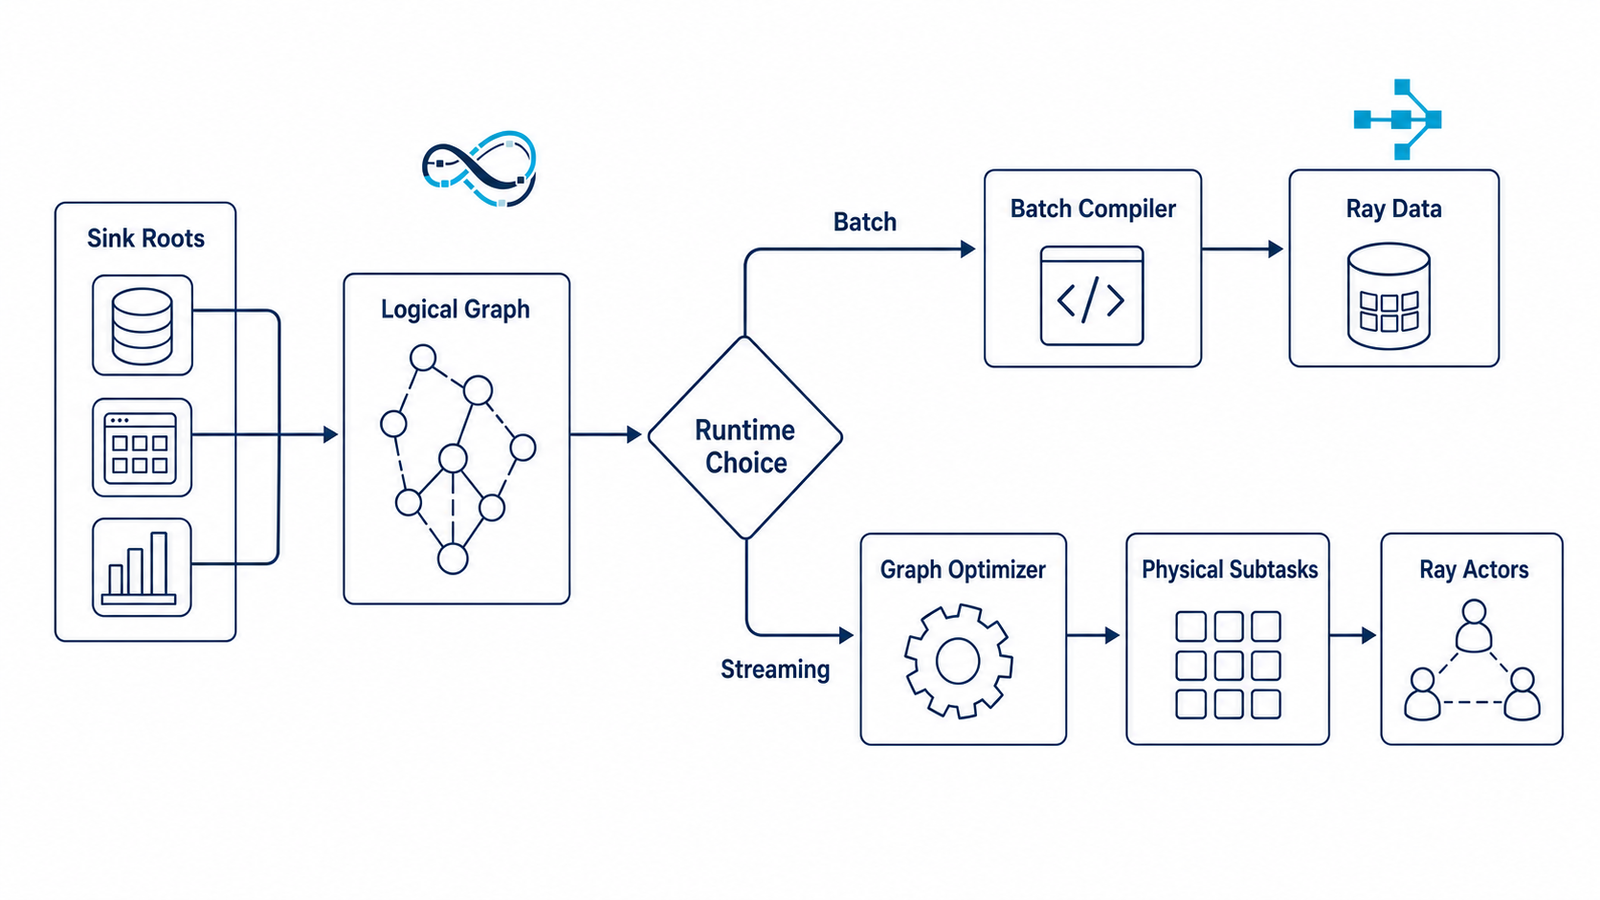
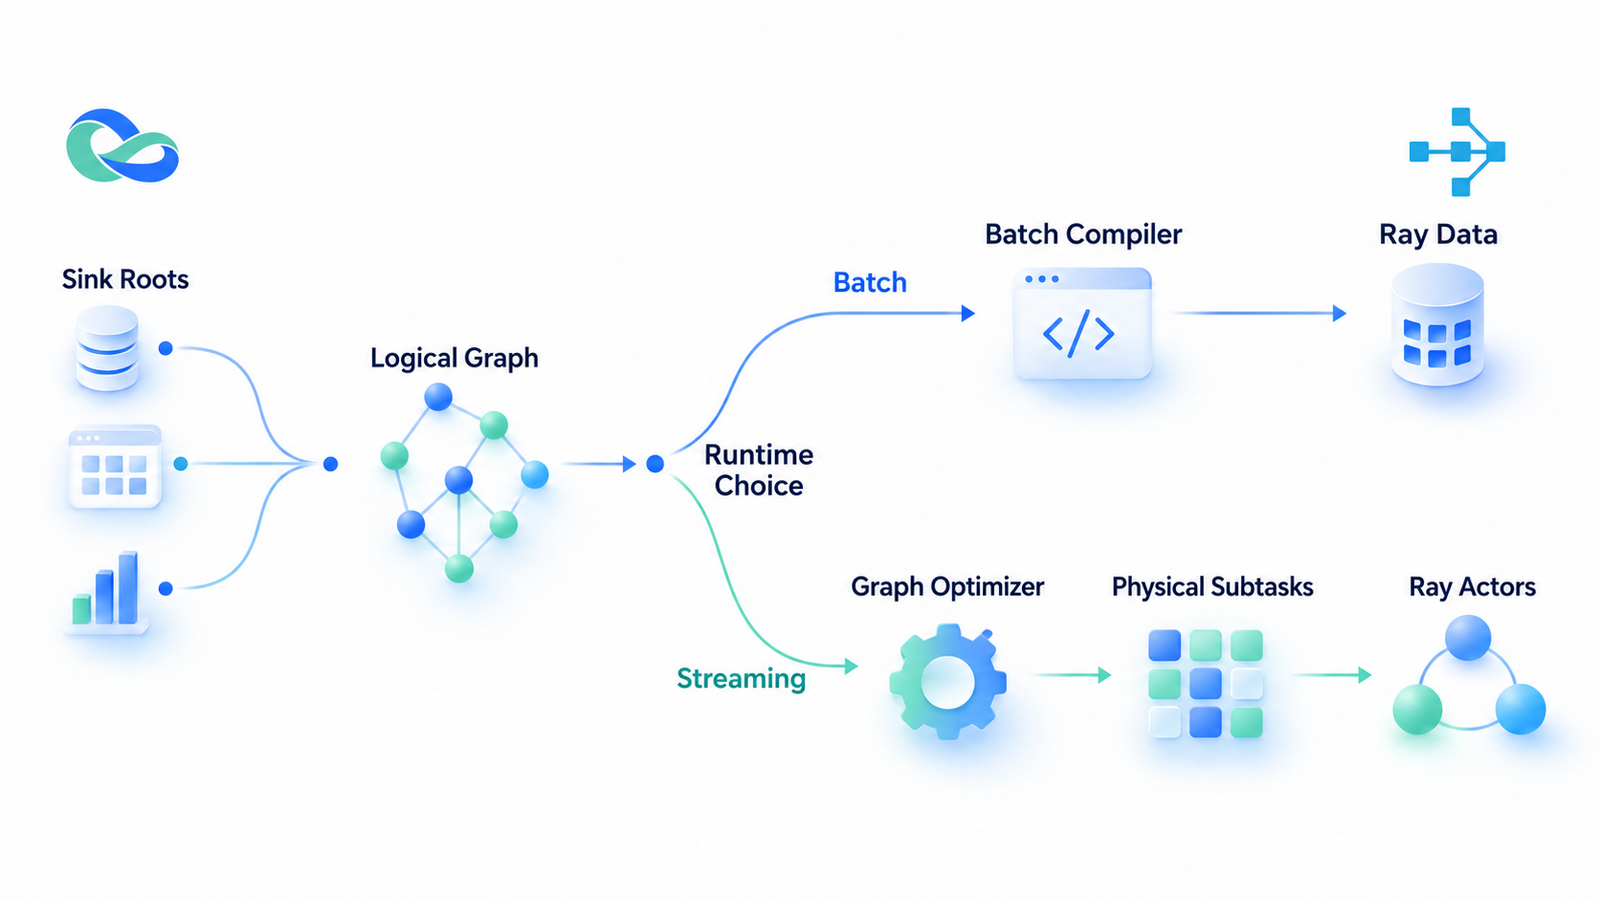
Refresh README and modernize documentation illustrations (#97)
Reorganize the README for first-time readers and add an ImageGen overview of
the per-job runtime choice. Refresh five shared documentation illustrations
with the approved blue/mint identity and modern open layouts, and preserve
the final prompts and artwork usage notes.

diff --git a/README.md b/README.md
@@ -19,67 +19,45 @@
   <a href="LICENSE"><img alt="Apache License 2.0" src="https://img.shields.io/badge/license-Apache--2.0-3DA639"></a>
 </p>
 
-Klein is a stateful stream-processing library built on Ray. A single
-`DataStream` API handles bounded Ray Data inputs and long-running streams, with
-event time, managed keyed state, checkpoint recovery, and SQL and Table APIs.
+<p align="center">
+  <a href="#quick-start">Quick start</a> ·
+  <a href="https://yuchen-ecnu.github.io/klein/latest/">Documentation</a> ·
+  <a href="https://yuchen-ecnu.github.io/klein/latest/zh_CN/">中文文档</a> ·
+  <a href="docs/examples.md">Examples</a>
+</p>
 
-> [!WARNING]
-> Klein is independent alpha software. It is not affiliated with,
-> endorsed by, or maintained by the Ray project. The `ray.klein` namespace is
-> retained as a technical integration point, not as a claim of official status.
+Klein brings stateful stream processing to Python applications on Ray. Build
+bounded data pipelines and long-running event streams with one `DataStream`
+API, with event time, managed keyed state, and checkpoint recovery.
+
+![Files and event streams enter the DataStream API; each job runs either as compatible Ray Data operations or as stateful Ray Core actors.](docs/_static/klein-overview.png)
+
+A job uses **one runtime**: compatible bounded graphs lower to Ray Data;
+streaming graphs run as long-lived Ray actors. See
+[how runtime selection works](docs/ray-data-interop.md).
 
 ## Why Klein?
 
-Klein is for Ray applications that need record-oriented processing and state
-that survives task failures or parallelism changes. Use
-[Ray Data](https://docs.ray.io/en/latest/data/data.html) directly for bounded
-data preparation, inference, or training ingest that does not need streaming
-state or event-time progress.
+- **Process events with state.** Build keyed aggregations, event-time windows,
+  and stateful transformations with managed state, timers, and watermarks.
+- **Recover a running pipeline.** Coordinate source positions and managed
+  state through durable checkpoints, then restore supported jobs after failure.
+- **Stay in your Ray environment.** Use Ray Data readers for bounded inputs,
+  Python or SQL for transformations, and the Dashboard and CLI to operate jobs.
 
-### Name and mark
+Klein fits applications that need continuous processing, event-time progress,
+or recoverable state on Ray. For bounded data preparation or training ingest
+without those requirements, [Ray Data](https://docs.ray.io/en/latest/data/data.html)
+may already cover your needs.
 
-“Klein” comes from the Klein bottle and the idea of taking a Möbius loop one
-dimension further. The blue and mint ribbons form an abstract folded surface,
-expressing continuous dataflow and the connection between bounded datasets
-and unbounded streams. The mark is inspired by topology rather than a literal
-mathematical projection of a Klein bottle.
+> [!NOTE]
+> Klein is an independent **alpha** project, not affiliated with, endorsed by,
+> or maintained by Ray. Public APIs and checkpoint formats may change before 1.0.
 
-| Capability | What Klein provides |
-| --- | --- |
-| Unified dataflows | One lazy `DataStream` graph for bounded and continuous sources. |
-| Native Ray execution | Ray Data lowers compatible bounded work; Ray Core runs long-lived streaming operators. |
-| Event time | Watermarks, idle-input detection, windows, and event-time timers. |
-| Managed state | Keyed state, TTL, key groups, rescaling, and checkpoint restore. |
-| Recovery | Durable checkpoints, source-position restore, and replay-aware sinks. |
-| Relational APIs | Bounded SQL plus dynamic tables and explicit changelog rows for continuous queries. |
-| Connectors | Ray Data, collections, Kafka, RocketMQ, filesystems, Iceberg, Redis, console, custom connectors, Canal JSON, and Ray Serve integration. |
-| Operations | Structured logs, Ray metrics, checkpoint inspection, CLI attach, and a JSON-safe state API. |
+## Quick start
 
-### How Klein fits into Ray
-
-| Ray component | Role in Klein |
-| --- | --- |
-| Ray Core | Runs distributed operators and coordinates streaming recovery. |
-| Ray Data | Executes bounded sources, transformations, shuffles, and sinks. |
-| Ray Object Store | Can cache sufficiently large immutable checkpoint fragments to accelerate recovery. |
-
-![Klein component architecture](docs/_static/architecture-overview.png)
-
-The same lazy graph therefore has two execution paths: bounded-compatible work
-lowers to Ray Data, while continuous work expands into long-lived Ray actors.
-The streaming control plane stays outside the record path; workers exchange
-ordered micro-batches directly and use durable checkpoints for cluster-loss
-recovery. See the [architecture guide](docs/architecture.md) for the planning,
-data-plane, checkpoint, and extension boundaries behind this overview.
-
-The distribution contributes only the `ray.klein` namespace package. It does
-not install `ray/__init__.py` or replace files owned by Ray.
-
-## Installation
-
-Klein currently targets Python 3.10–3.12 and Ray 2.56.x
-(`ray[data]>=2.56.1,<2.57`). The Alpha is currently installed from a source
-checkout or a wheel built from that checkout:
+Use Python **3.10–3.12** on Linux or macOS. Installation from source includes
+the supported Ray dependency (`ray[data]>=2.56.1,<2.57`).
 
 ```bash
 git clone https://github.com/yuchen-ecnu/klein.git
@@ -90,40 +68,7 @@ python -m pip install --upgrade pip
 python -m pip install .
 ```
 
-If Ray is supplied by a vendor image or private index, verify that it does not
-already ship `ray.klein` before installing this distribution:
-
-```bash
-python -m pip install "ray[data]>=2.56.1,<2.57"
-python scripts/check_ray_namespace.py
-```
-
-Do not merge two distributions that both own `ray.klein`; use a compatible Ray
-build or the Klein implementation bundled by that Ray distribution.
-
-Install connector dependencies only when needed:
-
-```bash
-python -m pip install ".[kafka]"   # continuous Kafka source/sink
-python -m pip install ".[iceberg]" # Iceberg catalog and output
-python -m pip install ".[media]"   # image, PDF, and media SQL functions
-python -m pip install ".[rocketmq]" # continuous RocketMQ source
-python -m pip install ".[redis]"   # Redis lookup/sink
-python -m pip install ".[rocksdb]" # local RocksDB state backend
-python -m pip install ".[serve]"   # Ray Serve bridge
-```
-
-For development, install the test, documentation, and tooling dependencies:
-
-```bash
-python -m pip install -e ".[dev]"
-pre-commit install --hook-type pre-commit --hook-type commit-msg
-```
-
-## Quick start
-
-Klein builds the bounded graph lazily. `klein.pipeline()` gives one job an
-explicit owner, while a single terminal submits itself directly:
+Run a small bounded pipeline:
 
 ```python
 import ray.klein as klein
@@ -142,109 +87,90 @@ rows = (
 )
 
 print(rows)
+# [{'name': 'Ada', 'amount': 8}, {'name': 'Grace', 'amount': 14}]
 ```
 
-```text
-[{'name': 'Ada', 'amount': 8}, {'name': 'Grace', 'amount': 14}]
-```
+Transformations build a lazy graph. `collect()` submits the explicit pipeline;
+`result()` waits for its rows. No broker or external data source is needed for
+this example.
 
-`klein.pipeline()` is the recommended explicit job boundary; the `Pipeline`
-class remains available for annotations, subclassing, and compatibility. The
-module-level `ray.klein` API and `execute()` remain supported when one
-implicit, deferred pipeline is convenient. Multiple sinks on an explicit
-pipeline can be grouped with `pipeline.create_statement_set()`. Source
-construction follows `ray.data`: for
-example, `pipeline.ray_data.read_parquet(...)` creates a bounded stream using
-the installed Ray Data reader. Native methods such as `stream.map(...)` use
-Klein semantics; `stream.ray_data.map(...)` explicitly delegates to the
-installed Ray Data implementation. The shorter `.data` spelling remains
-available for compatibility.
+**Next, connect real data:** follow the
+[Kafka streaming walkthrough](docs/getting-started.md#submit-a-dataflow),
+[SQL quick start](docs/sql/getting-started.md), or
+[checkpointed streaming example](docs/production-streaming.md).
 
-For continuous execution, see the
-[Kafka walkthrough](docs/getting-started.md#submit-a-dataflow) and the complete
-[connector catalog](docs/connectors/index.md).
+Install only the extras you need, such as `python -m pip install ".[kafka]"`.
+The [installation guide](docs/installation.md) covers all extras, cluster setup,
+and checks for vendor Ray builds that already provide `ray.klein`.
 
-Start the self-contained Klein Dashboard on port 8266. Its React application is
-packaged with `ray-klein`; Ray-owned navigation opens the native Dashboard on
-port 8265:
+## What you can build with
+
+| Capability | What it provides | Guide |
+| --- | --- | --- |
+| State and event time | Keyed value, list, and map state; TTL; timers; watermarks; windows. | [Managed state](docs/ray-native-state.md) · [Event time](docs/event-time.md) |
+| Recovery | Durable checkpoints, source-position restore, and replay-aware sinks. | [Checkpoint recovery](docs/checkpoint-recovery.md) |
+| SQL and tables | Bounded queries and continuous queries with explicit changelog rows. | [SQL and Table APIs](docs/sql.md) |
+| Inputs and outputs | Ray Data, Kafka, RocketMQ, filesystems, Iceberg, Redis, and custom connectors. | [Connector catalog](docs/connectors/index.md) |
+| Ray integration | Ray Data readers and Dataset adapters; eligible transform chains behind Ray Serve. | [Ray Data](docs/ray-data-interop.md) · [Ray Serve](docs/connectors/ray-serve.md) |
+| Operations | Dashboard, metrics, CLI inspection, detached jobs, and supported live operator rescaling. | [Observability](docs/observability.md) · [Rescaling](docs/operator-rescaling.md) |
+
+Delivery guarantees depend on the source and sink. General delivery is
+at least once; checkpoint-aware filesystem and Iceberg outputs have their own
+publication contracts. Review [delivery semantics](docs/delivery-semantics.md)
+and [operator compatibility](docs/operator-compatibility.md) for your graph.
+
+### Inspect jobs in the Dashboard
+
+The Dashboard ships with Klein and runs on port **8266**. It provides job
+status, operator graphs, checkpoint inspection, and configuration. Links to
+Ray-owned views open the native Ray Dashboard on port **8265**.
 
 ```bash
 ray-klein dashboard --open \
   --ray-dashboard-url http://127.0.0.1:8265
 ```
 
-## Documentation
+See the [operations guide](docs/observability.md) for connecting to a cluster,
+metrics, and CLI access.
 
-| Start here | What it covers |
+## Go further
+
+| Your next step | Start here |
 | --- | --- |
-| [Installation](docs/installation.md) | Supported environments, base and optional extras, cluster consistency, verification, upgrades, and removal. |
-| [Getting started](docs/getting-started.md) | Installation, bounded pipelines, streaming submission, and configuration. |
-| [Key concepts](docs/key-concepts.md) | Execution modes, state, event time, and recovery. |
-| [Architecture](docs/architecture.md) | Planning, batch and streaming runtimes, the ordered data plane, checkpoints, recovery, and extension boundaries. |
-| [User guides](docs/user-guides.md) | Production streaming, SQL, state, delivery semantics, recovery, deployment, tuning, and operations. |
-| [DataStream programming](docs/datastream-programming-guide.md) | Records, batches, UDF forms, ordering, errors, resources, partitioning, and external side effects. |
-| [Job lifecycle](docs/job-lifecycle.md) | `Pipeline`, `StatementSet`, direct and deferred terminals, job handles, cancellation, namespaces, and cleanup. |
-| [Operator compatibility](docs/operator-compatibility.md) | Batch/streaming support, partitioning, state, changelog, and sink behavior. |
-| [Production walkthrough](docs/production-streaming.md) | Kafka input through event-time state, checkpoints, file output, CLI operations, and restore. |
-| [Connector catalog](docs/connectors/index.md) | Every connector's modes, options, defaults, schemas, and guarantees. |
-| [Configuration reference](docs/configuration-reference.md) | Every supported key, type, default, constraint, and environment variable. |
-| [API reference](docs/api/api.rst) | Public Python classes, functions, and methods. |
-| [Observability](docs/observability.md) | Logs, metrics, checkpoints, CLI attach, and the web Dashboard with operator scaling. |
-| [Evaluation](docs/evaluation/index.md) | Reproducible benchmark reports, baselines, correctness checks, neutral results, and engineering decisions. |
-| [Production readiness](docs/production-readiness.md) | A release checklist for compatibility, recovery, capacity, observability, security, and rollback. |
-| [Security](docs/security.md) | Trust boundaries, UDF and pickle risks, control-plane exposure, secrets, and hardening. |
-| [Limits, stability, and upgrades](docs/limitations.md) | Unsupported combinations, API guarantees, checkpoint compatibility, upgrade rehearsal, and rollback. |
-| [CLI reference](docs/cli-reference.md) | Commands, options, JSON output, exit statuses, terminal behavior, and automation examples. |
-| [FAQ](docs/faq.md) | Short answers about installation, execution, state, SQL, connectors, and operations. |
-| [Troubleshooting](docs/troubleshooting.md) | Installation, planning, connector, watermark, checkpoint, backpressure, and CLI failures. |
+| Learn the programming model | [Key concepts](docs/key-concepts.md) · [DataStream guide](docs/datastream-programming-guide.md) · [Examples](docs/examples.md) |
+| Understand the implementation | [Architecture](docs/architecture.md) · [Feature guides](docs/features.md) |
+| Run a continuous job | [Production walkthrough](docs/production-streaming.md) · [Deployment](docs/deployment.md) |
+| Evaluate a deployment | [Known limitations](docs/limitations.md) · [Production readiness](docs/production-readiness.md) · [Security](docs/security.md) |
+| Look up an API or solve a problem | [API reference](docs/api/api.rst) · [Configuration](docs/configuration-reference.md) · [Troubleshooting](docs/troubleshooting.md) |
 
-### Feature guides
-
-| Feature | Dedicated documentation |
-| --- | --- |
-| Feature overview | [Feature highlights](docs/features.md) maps every distinctive capability to its programming, operations, and limitation guides. |
-| Hybrid Ray execution and dynamic Ray Data access | [Ray Data interoperation](docs/ray-data-interop.md) |
-| Managed keyed state, TTL, timers, and key groups | [Managed state](docs/ray-native-state.md) |
-| Watermarks, idleness, windows, and interval joins | [Event time](docs/event-time.md) |
-| Bounded and continuous relational processing | [SQL and Table APIs](docs/sql.md) |
-| Checkpoint-aware recovery and sink guarantees | [Delivery semantics](docs/delivery-semantics.md) |
-| Ray Data autoscaling and live streaming rescaling | [Autoscaling and live operator rescaling](docs/operator-rescaling.md) |
-| Detached streaming jobs and driver failure | [Driver fault tolerance](docs/driver-fault-tolerance.md) |
-| Independently deployed transform regions | [Ray Serve execution integration](docs/connectors/ray-serve.md) |
-
-Build the documentation locally with:
-
-```bash
-make docs          # English at docs/_build/html, Chinese at docs/_build/html/zh_CN
-make docs-en       # English only
-make docs-zh       # Chinese only
-make docs-gettext  # Refresh translation templates
-KLEIN_DOCS_OFFLINE=1 make docs  # Skip remote intersphinx inventories
-```
-
-## Compatibility and stability
-
-The public API is still evolving and may change before 1.0. Klein pins one
-tested Ray minor release because some Ray Data extension points are Developer
-APIs; read the [compatibility policy](docs/compatibility.md) before changing the
-Ray dependency range.
-
-`state.keyed.max-parallelism` is part of checkpoint compatibility. Do not
-change it after a job creates checkpoints that must remain restorable.
+Browse the full documentation in
+[English](https://yuchen-ecnu.github.io/klein/latest/) or
+[中文](https://yuchen-ecnu.github.io/klein/latest/zh_CN/).
+Klein targets one tested Ray minor release; read the
+[compatibility policy](docs/compatibility.md) before changing dependencies and
+[upgrade guidance](docs/upgrading.md) before restoring existing checkpoints.
 
 ## Contributing and support
 
-Contributions are welcome. Read [CONTRIBUTING.md](CONTRIBUTING.md) for setup,
-test tiers, sign-off, and pull request requirements. For help, use the channels
-in [SUPPORT.md](SUPPORT.md); report vulnerabilities privately as described in
-[SECURITY.md](SECURITY.md).
+Start with [CONTRIBUTING.md](CONTRIBUTING.md) for development setup, tests,
+and pull requests. See [SUPPORT.md](SUPPORT.md) for questions and bug reports,
+and [SECURITY.md](SECURITY.md) for private vulnerability reporting.
 
-Project decisions follow [GOVERNANCE.md](GOVERNANCE.md), releases are recorded
-in [CHANGELOG.md](CHANGELOG.md), and research users can cite the metadata in
-[CITATION.cff](CITATION.cff).
+[Governance](GOVERNANCE.md) · [Changelog](CHANGELOG.md) · [Citation](CITATION.cff)
+
+<details>
+<summary>Why “Klein”?</summary>
+
+The name comes from the Klein bottle and the idea of taking a Möbius loop one
+dimension further. The blue and mint ribbons suggest continuous dataflow and
+the connection between bounded datasets and unbounded streams. The mark is
+inspired by topology, rather than a literal projection of a Klein bottle.
+[Brand assets and artwork sources](docs/brand/README.txt) are kept in the repository.
+
+</details>
 
 ## License
 
-Klein is licensed under the [Apache License 2.0](LICENSE). See
-[NOTICE](NOTICE), [PROVENANCE.md](PROVENANCE.md), and
-[TRADEMARKS.md](TRADEMARKS.md) for attribution and project identity.
+[Apache License 2.0](LICENSE). See [NOTICE](NOTICE),
+[PROVENANCE.md](PROVENANCE.md), and [TRADEMARKS.md](TRADEMARKS.md) for attribution
+and project identity.
